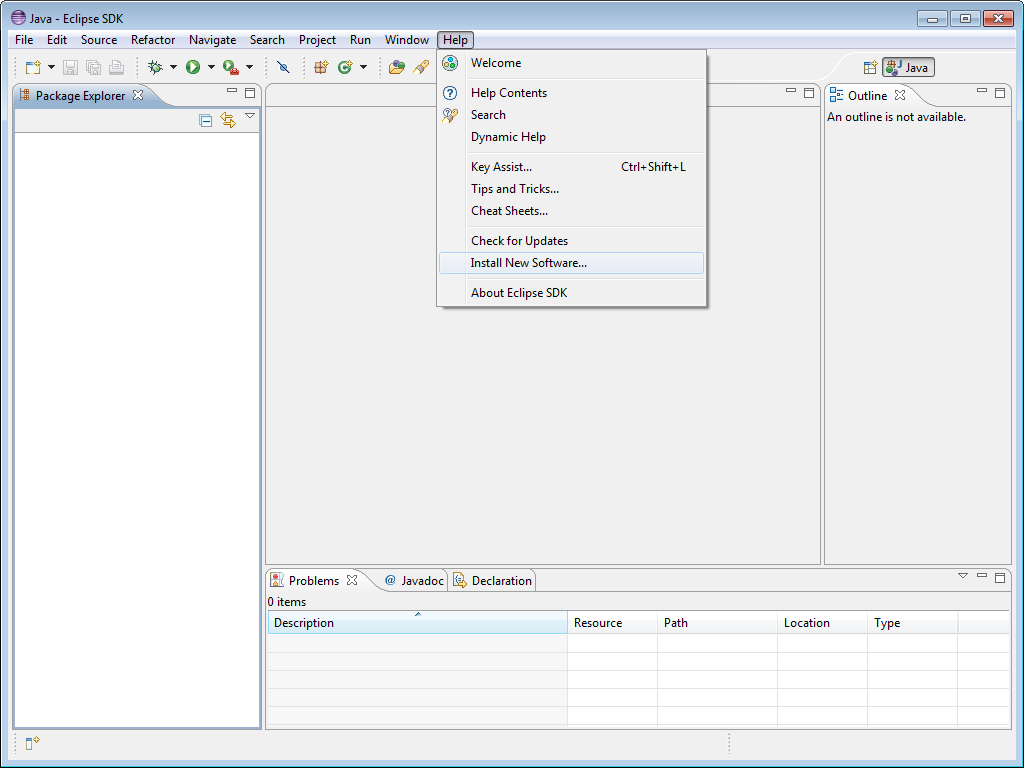
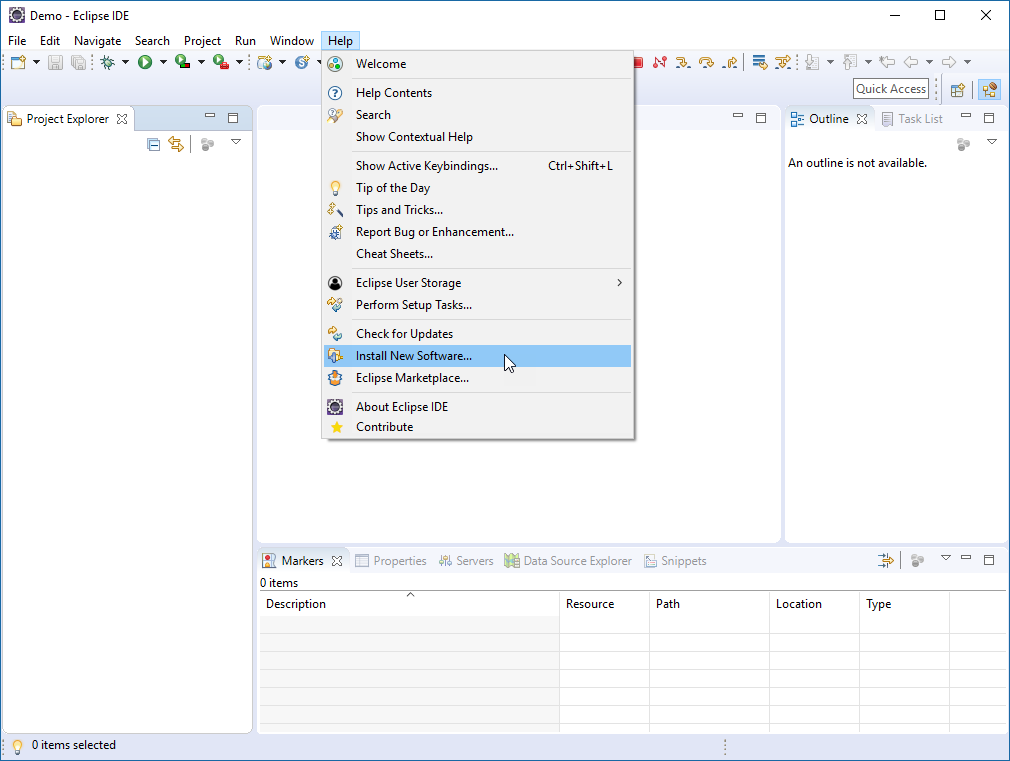
5541: Updating JMC landing page with new coordinates and screenshots

Changed region(s): [[0.0, 0.0, 1.0, 1.0]]

diff --git a/application/org.openjdk.jmc.updatesite.ide/src/main/resources/update-site-instructions/index.html b/application/org.openjdk.jmc.updatesite.ide/src/main/resources/update-site-instructions/index.html
@@ -39,7 +39,7 @@
           facility. The following URL functions as an update site. Novice users can follow
           the step-by-step instructions.<br><br>
           
-          <b>http://download.oracle.com/technology/products/missioncontrol/updatesites/base/7.0.0/eclipse/</b><br><br>
+          <b>http://download.oracle.com/technology/products/missioncontrol/updatesites/openjdk/7.0.0/eclipse/</b><br><br>
 
           <p class="section-header"><b>Step-by-Step Instructions</b></p>
           
@@ -76,7 +76,7 @@
                 <ol start="2">
                   <li>
                     <p>Fill in the following URL in the <b>Work with:</b> text field:</p>
-                    	<p><b>http://download.oracle.com/technology/products/missioncontrol/updatesites/base/7.0.0/eclipse/</b></p>
+                    	<p><b>https://download.oracle.com/technology/products/missioncontrol/updatesites/openjdk/7.0.0/eclipse/</b></p>
                     	<p>Press the return key.</p>
                   </li>
                 </ol>
@@ -92,7 +92,7 @@
               <td class="instructions-cell">
                 <ol start="3">
                   <li>
-                    Make sure that the check box next to JDK Mission Control list 
+                    Make sure that the check box next to the Mission Control/Base(Required) list 
                     entry is checked. Click on the <b>Next</b> button.
                   </li>
                 </ol>
@@ -139,7 +139,7 @@
               <td class="instructions-cell">
                 <ol start="6">
                   <li>
-                    Wait for the plug-ins to be downloaded, then click <b>Yes</b> to restart Eclipse and finish the installation.                   
+                    Wait for the plug-ins to be downloaded, then click <b>Restart Now</b> to restart Eclipse and finish the installation.                   
                   </li>
                 </ol>
               </td>
